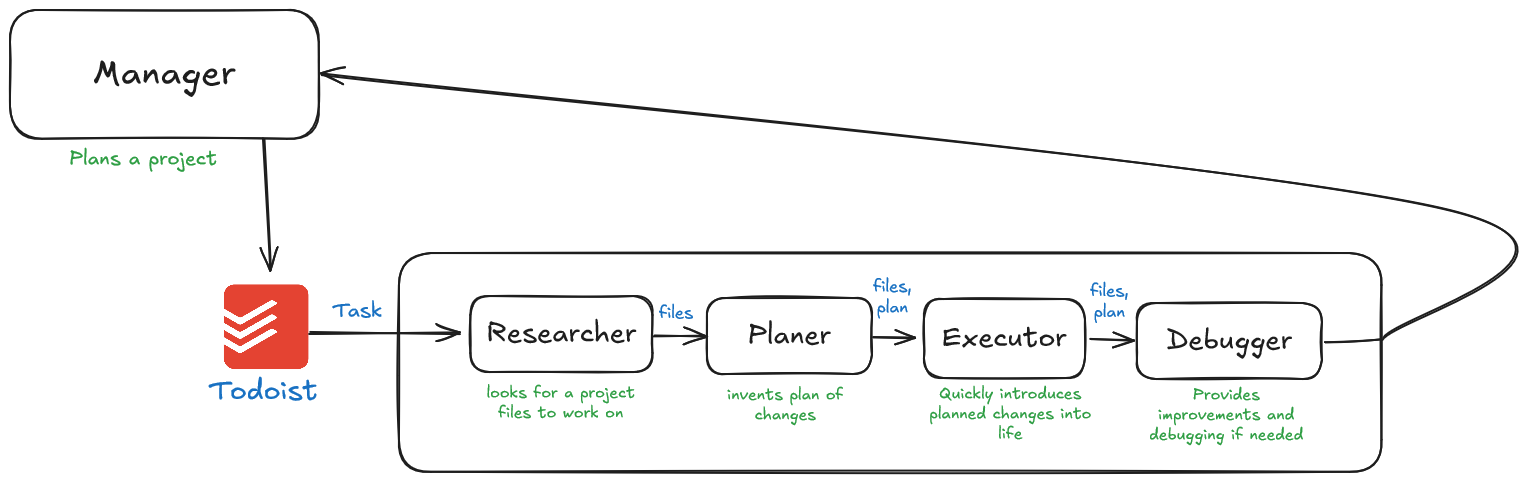
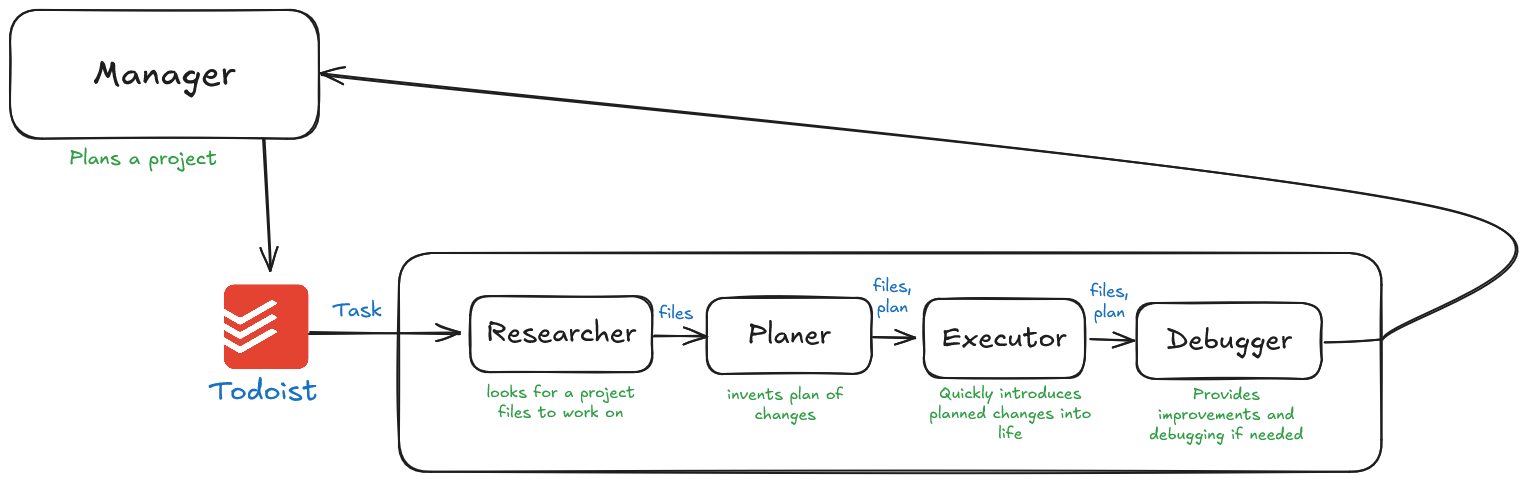
code moved to single directory

diff --git a/manager.py b/manager.py
@@ -1,9 +1,9 @@
 if __name__ == "__main__":
-    from utilities.graphics import print_ascii_logo
+    from src.utilities.graphics import print_ascii_logo
     print_ascii_logo()
 
 from dotenv import find_dotenv, load_dotenv
-from utilities.set_up_dotenv import set_up_env_manager, add_todoist_envs
+from src.utilities.set_up_dotenv import set_up_env_manager, add_todoist_envs
 import os
 if not find_dotenv():
     set_up_env_manager()
@@ -17,16 +17,16 @@ from langchain_core.messages import BaseMessage, HumanMessage, SystemMessage
 from langchain_core.load import dumps, loads
 from langgraph.graph import StateGraph
 from dotenv import load_dotenv, find_dotenv
-from tools.tools_project_manager import add_task, modify_task, create_epic, modify_epic, finish_project_planning, reorder_tasks
-from tools.tools_coder_pipeline import prepare_list_dir_tool, prepare_see_file_tool, ask_human_tool
+from src.tools.tools_project_manager import add_task, modify_task, create_epic, modify_epic, finish_project_planning, reorder_tasks
+from src.tools.tools_coder_pipeline import prepare_list_dir_tool, prepare_see_file_tool, ask_human_tool
 from langchain_community.chat_models import ChatOllama
-from utilities.manager_utils import read_project_description, read_progress_description, get_project_tasks
-from utilities.langgraph_common_functions import (call_model, call_tool, bad_json_format_msg, multiple_jsons_msg,
+from src.utilities.manager_utils import read_project_description, read_progress_description, get_project_tasks
+from src.utilities.langgraph_common_functions import (call_model, call_tool, bad_json_format_msg, multiple_jsons_msg,
                                                   no_json_msg)
-from utilities.util_functions import render_tools, join_paths
-from utilities.start_project_functions import create_project_description_file, set_up_dot_clean_coder_dir
-from utilities.llms import llm_open_router
-from utilities.print_formatters import print_formatted
+from src.utilities.util_functions import render_tools, join_paths
+from src.utilities.start_project_functions import create_project_description_file, set_up_dot_clean_coder_dir
+from src.utilities.llms import llm_open_router
+from src.utilities.print_formatters import print_formatted
 import json
 import os
 import warnings
@@ -83,7 +83,7 @@ What have been done so far:
 {progress_description}"""
 
 current_dir = os.path.dirname(os.path.realpath(__file__))
-with open(f"{current_dir}/prompts/manager_system.prompt", "r") as f:
+with open(f"{current_dir}/src/prompts/manager_system.prompt", "r") as f:
     system_prompt_template = f.read()
 
 system_message = SystemMessage(

diff --git a/single_task_coder.py b/single_task_coder.py
@@ -1,21 +1,21 @@
 if __name__ == "__main__":
-    from utilities.graphics import print_ascii_logo
+    from src.utilities.graphics import print_ascii_logo
     print_ascii_logo()
 from dotenv import find_dotenv
-from utilities.set_up_dotenv import set_up_env_coder_pipeline
+from src.utilities.set_up_dotenv import set_up_env_coder_pipeline
 if not find_dotenv():
     set_up_env_coder_pipeline()
 
-from agents.researcher_agent import Researcher
-from agents.planner_agent import planning
-from agents.executor_agent import Executor
-from agents.debugger_agent import Debugger
-from agents.frontend_feedback import write_screenshot_codes, execute_screenshot_codes
+from src.agents.researcher_agent import Researcher
+from src.agents.planner_agent import planning
+from src.agents.executor_agent import Executor
+from src.agents.debugger_agent import Debugger
+from src.agents.frontend_feedback import write_screenshot_codes, execute_screenshot_codes
 import os
-from utilities.user_input import user_input
-from utilities.print_formatters import print_formatted
-from utilities.start_project_functions import set_up_dot_clean_coder_dir
-from utilities.util_functions import create_frontend_feedback_story
+from src.utilities.user_input import user_input
+from src.utilities.print_formatters import print_formatted
+from src.utilities.start_project_functions import set_up_dot_clean_coder_dir
+from src.utilities.util_functions import create_frontend_feedback_story
 from concurrent.futures import ThreadPoolExecutor
 
 

diff --git a/src/agents/debugger_agent.py b/src/agents/debugger_agent.py
@@ -1,5 +1,5 @@
 import os
-from tools.tools_coder_pipeline import (
+from src.tools.tools_coder_pipeline import (
     ask_human_tool, prepare_list_dir_tool, prepare_see_file_tool,
     prepare_create_file_tool, prepare_replace_code_tool, prepare_insert_code_tool, prepare_watch_web_page_tool
 )
@@ -11,14 +11,14 @@ from dotenv import load_dotenv, find_dotenv
 from langchain.tools import tool
 from langchain_community.chat_models import ChatOllama
 from langchain_anthropic import ChatAnthropic
-from utilities.print_formatters import print_formatted
-from utilities.util_functions import check_file_contents, check_application_logs, render_tools, exchange_file_contents, bad_tool_call_looped
-from utilities.llms import llm_open_router
-from utilities.langgraph_common_functions import (
+from src.utilities.print_formatters import print_formatted
+from src.utilities.util_functions import check_file_contents, check_application_logs, render_tools, exchange_file_contents, bad_tool_call_looped
+from src.utilities.llms import llm_open_router
+from src.utilities.langgraph_common_functions import (
     call_model, call_tool, ask_human, after_ask_human_condition, bad_json_format_msg, multiple_jsons_msg, no_json_msg,
     agent_looped_human_help,
 )
-from agents.frontend_feedback import execute_screenshot_codes
+from src.agents.frontend_feedback import execute_screenshot_codes
 
 load_dotenv(find_dotenv())
 log_file_path = os.getenv("LOG_FILE")

diff --git a/src/agents/researcher_agent.py b/src/agents/researcher_agent.py
@@ -6,16 +6,16 @@ from langchain_core.messages import BaseMessage, HumanMessage, SystemMessage
 from langgraph.graph import StateGraph
 from dotenv import load_dotenv, find_dotenv
 from langchain.tools import tool
-from tools.tools_coder_pipeline import (
+from src.tools.tools_coder_pipeline import (
      prepare_see_file_tool, prepare_list_dir_tool, retrieve_files_by_semantic_query
 )
-from tools.rag.retrieval import vdb_available
-from utilities.util_functions import find_tools_json, list_directory_tree, render_tools
-from utilities.langgraph_common_functions import (
+from src.tools.rag.retrieval import vdb_available
+from src.utilities.util_functions import find_tools_json, list_directory_tree, render_tools
+from src.utilities.langgraph_common_functions import (
     call_model, call_tool, ask_human, after_ask_human_condition, bad_json_format_msg, no_json_msg, finish_too_early_msg
 )
-from utilities.print_formatters import print_formatted, print_error
-from utilities.llms import llm_open_router
+from src.utilities.print_formatters import print_formatted, print_error
+from src.utilities.llms import llm_open_router
 import os
 
 

diff --git a/src/agents/executor_agent.py b/src/agents/executor_agent.py
@@ -1,5 +1,5 @@
 import os
-from tools.tools_coder_pipeline import (
+from src.tools.tools_coder_pipeline import (
     ask_human_tool, prepare_create_file_tool, prepare_replace_code_tool, prepare_insert_code_tool
 )
 from langchain_openai.chat_models import ChatOpenAI
@@ -10,12 +10,12 @@ from dotenv import load_dotenv, find_dotenv
 from langchain.tools import tool
 from langchain_community.chat_models import ChatOllama
 from langchain_anthropic import ChatAnthropic
-from utilities.llms import llm_open_router
-from utilities.print_formatters import print_formatted, print_error
-from utilities.util_functions import (
+from src.utilities.llms import llm_open_router
+from src.utilities.print_formatters import print_formatted, print_error
+from src.utilities.util_functions import (
     check_file_contents, render_tools, find_tools_json, exchange_file_contents, bad_tool_call_looped
 )
-from utilities.langgraph_common_functions import (
+from src.utilities.langgraph_common_functions import (
     call_model, call_tool, bad_json_format_msg, multiple_jsons_msg, no_json_msg, agent_looped_human_help
 )
 

diff --git a/src/agents/planner_agent.py b/src/agents/planner_agent.py
@@ -5,14 +5,14 @@ from langchain_core.messages import BaseMessage, HumanMessage, SystemMessage, AI
 from langgraph.graph import END, StateGraph
 from dotenv import load_dotenv, find_dotenv
 
-from utilities.print_formatters import print_formatted, print_formatted_content
-from utilities.util_functions import check_file_contents, convert_images, get_joke
-from utilities.langgraph_common_functions import after_ask_human_condition
-from utilities.user_input import user_input
+from src.utilities.print_formatters import print_formatted, print_formatted_content
+from src.utilities.util_functions import check_file_contents, convert_images, get_joke
+from src.utilities.langgraph_common_functions import after_ask_human_condition
+from src.utilities.user_input import user_input
 import os
 from langchain_community.chat_models import ChatOllama
 from langchain_anthropic import ChatAnthropic
-from utilities.llms import llm_open_router
+from src.utilities.llms import llm_open_router
 
 
 load_dotenv(find_dotenv())

diff --git a/src/agents/file_answerer.py b/src/agents/file_answerer.py
@@ -6,15 +6,15 @@ from langchain_core.messages import BaseMessage, HumanMessage, SystemMessage
 from langgraph.graph import StateGraph, END
 from dotenv import load_dotenv, find_dotenv
 from langchain.tools import tool
-from tools.tools_coder_pipeline import (
+from src.tools.tools_coder_pipeline import (
      prepare_see_file_tool, prepare_list_dir_tool, retrieve_files_by_semantic_query
 )
-from tools.rag.retrieval import vdb_available
-from utilities.util_functions import find_tools_json, list_directory_tree
-from utilities.langgraph_common_functions import (
+from src.tools.rag.retrieval import vdb_available
+from src.utilities.util_functions import find_tools_json, list_directory_tree
+from src.utilities.langgraph_common_functions import (
     call_model_native_tools, call_tool_native, bad_json_format_msg, no_json_msg
 )
-from utilities.llms import llm_open_router
+from src.utilities.llms import llm_open_router
 import os
 
 

diff --git a/src/tools/tools_coder_pipeline.py b/src/tools/tools_coder_pipeline.py
@@ -2,11 +2,11 @@ from langchain.tools import tool
 import os
 from playwright.sync_api import sync_playwright
 from dotenv import load_dotenv, find_dotenv
-from utilities.syntax_checker_functions import check_syntax
-from utilities.start_work_functions import file_folder_ignored, CoderIgnore
-from utilities.util_functions import join_paths, TOOL_NOT_EXECUTED_WORD
-from utilities.user_input import user_input
-from tools.rag.retrieval import retrieve
+from src.utilities.syntax_checker_functions import check_syntax
+from src.utilities.start_work_functions import file_folder_ignored, CoderIgnore
+from src.utilities.util_functions import join_paths, TOOL_NOT_EXECUTED_WORD
+from src.utilities.user_input import user_input
+from src.tools.rag.retrieval import retrieve
 import base64
 
 

diff --git a/src/agents/frontend_feedback.py b/src/agents/frontend_feedback.py
@@ -3,13 +3,13 @@ from langchain_openai.chat_models import ChatOpenAI
 from langchain_core.messages import HumanMessage
 from langchain_ollama import ChatOllama
 from langchain_anthropic import ChatAnthropic
-from utilities.llms import llm_open_router
-from utilities.start_work_functions import read_frontend_feedback_story
+from src.utilities.llms import llm_open_router
+from src.utilities.start_work_functions import read_frontend_feedback_story
 import base64
 from langchain.output_parsers import XMLOutputParser
 import textwrap
 
-from agents.file_answerer import ResearchFileAnswerer
+from src.agents.file_answerer import ResearchFileAnswerer
 from typing import Optional, List
 from typing_extensions import Annotated, TypedDict
 from pydantic import BaseModel, Field

diff --git a/src/utilities/langgraph_common_functions.py b/src/utilities/langgraph_common_functions.py
@@ -1,9 +1,9 @@
 from langchain_core.messages import HumanMessage
-from utilities.print_formatters import print_formatted, print_error, print_formatted_content
-from utilities.util_functions import find_tools_json, invoke_tool, invoke_tool_native, TOOL_NOT_EXECUTED_WORD
-from utilities.user_input import user_input
+from src.utilities.print_formatters import print_formatted, print_error, print_formatted_content
+from src.utilities.util_functions import find_tools_json, invoke_tool, invoke_tool_native, TOOL_NOT_EXECUTED_WORD
+from src.utilities.user_input import user_input
 from langgraph.graph import END
-from utilities.graphics import loading_animation
+from src.utilities.graphics import loading_animation
 import threading
 import sys
 

diff --git a/src/tools/tools_project_manager.py b/src/tools/tools_project_manager.py
@@ -1,15 +1,15 @@
 from langchain.tools import tool
 from todoist_api_python.api import TodoistAPI
 import os
-from utilities.print_formatters import print_formatted
-from utilities.manager_utils import actualize_progress_description_file
-from utilities.user_input import user_input
+from src.utilities.print_formatters import print_formatted
+from src.utilities.manager_utils import actualize_progress_description_file
+from src.utilities.user_input import user_input
 from dotenv import load_dotenv, find_dotenv
 from single_task_coder import run_clean_coder_pipeline
 import uuid
 import requests
 import json
-from utilities.manager_utils import move_task
+from src.utilities.manager_utils import move_task
 
 
 load_dotenv(find_dotenv())

diff --git a/src/utilities/util_functions.py b/src/utilities/util_functions.py
@@ -4,13 +4,13 @@ import os
 import xml.etree.ElementTree as ET
 import base64
 import requests
-from utilities.start_work_functions import file_folder_ignored, CoderIgnore
-from utilities.print_formatters import print_formatted
+from src.utilities.start_work_functions import file_folder_ignored, CoderIgnore
+from src.utilities.print_formatters import print_formatted
 from dotenv import load_dotenv, find_dotenv
 from todoist_api_python.api import TodoistAPI
 from langchain_core.messages import HumanMessage, ToolMessage
 import click
-from utilities.start_work_functions import Work
+from src.utilities.start_work_functions import Work
 
 
 load_dotenv(find_dotenv())
